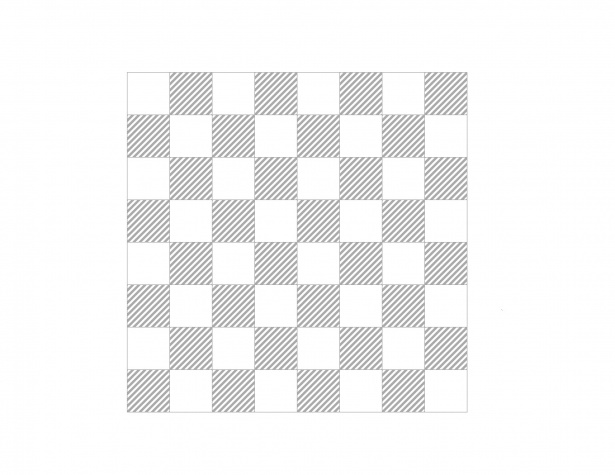
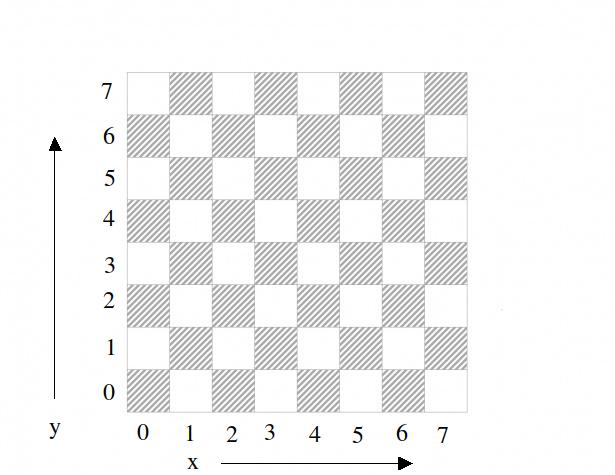
readme

diff --git a/README.md b/README.md
@@ -49,19 +49,71 @@ In order to terminate the use and shut down the server it is necessary to run co
 crtl + c
 ```
 
-# How it use:
+# How it work:
 
 
 <img src="image/chess-board.jpg" width="1228"/>
 
 
+You can move the figure by chessboard cords. It's horizontal x and vertical y. Every axis has got value 0-7.
+
+## How it use:
+
+In this app you can easily check available moves chosen figures.
+
+How to do it:
+
+Url endpoint is:
+
+`your computer ip adress  +  /api/v1/figure>/cords_from_x_axis/cords_from_y_axis`
+
+```
+figure = figure you want to check. You can choose from pawn, rook, bishop, knight, queen, king.
+
+cords_from_x_axis = horizontal cords from 0-7
+
+cords_from_y_axis = vertical cords from 0-7
+```
+
+For example:
+If you want check available moves for King while standing on cords (0, 4) you must use endpoint:
+
+`your computer ip adress  +  /api/v1/king/0/4`
+
+or if you want check available moves for Rook while standing on cords (2, 0) you must use endpoint:
+
+`your computer ip adress  +  /api/v1/rook/2/4`
 
 
-- Crate new folder and new working environment using python/pip.
-- Install requirements.txt using pip. `pip install -r requirements.txt`,
 
-- Run Django command `python manage.py makemigrations` to make/prepare migrations,
-- Run Django command `python manage.py migrate` to implement migrations,
-- Run Django command `python manage.py createsuperuser` and create superuser to can use django admin site,
-- Run Cron command `ppython manage.py crontab add` to initial cron task,
-- Lastly run App using `python3 manage.py runserver`.
+
+
+In this app you can also easily check validation for chosen figures moves.
+
+How to do it:
+
+Url endpoint is:
+
+`your computer ip adress  +  /api/v1/figure>/cords_from_x_axis/cords_from_y_axis/cords_to_destiny_x_axis/cords_to_destiny_y_axis`
+
+```
+figure = figure you want to check. You can choose from pawn, rook, bishop, knight, queen, king.
+
+cords_from_x_axis = horizontal cords from 0-7
+
+cords_from_y_axis = vertical cords from 0-7
+
+cords_to_destiny_x_axis = horizontal destiny cords from 0-7
+
+cords_to_destiny_y_axis = vertical destiny cords from 0-7
+
+
+For example:
+If you want check that Pawn from (2, 1) cords can go to (2, 2) cords you must use endpoint:
+
+`your computer ip adress  +  /api/v1/pawn/2/1/2/2`
+
+or if you want check that Bishop from (1, 0) cords can go to (6, 6) cords you must use endpoint:
+
+`your computer ip adress  +  /api/v1/bishop/1/0/6/6`
+
